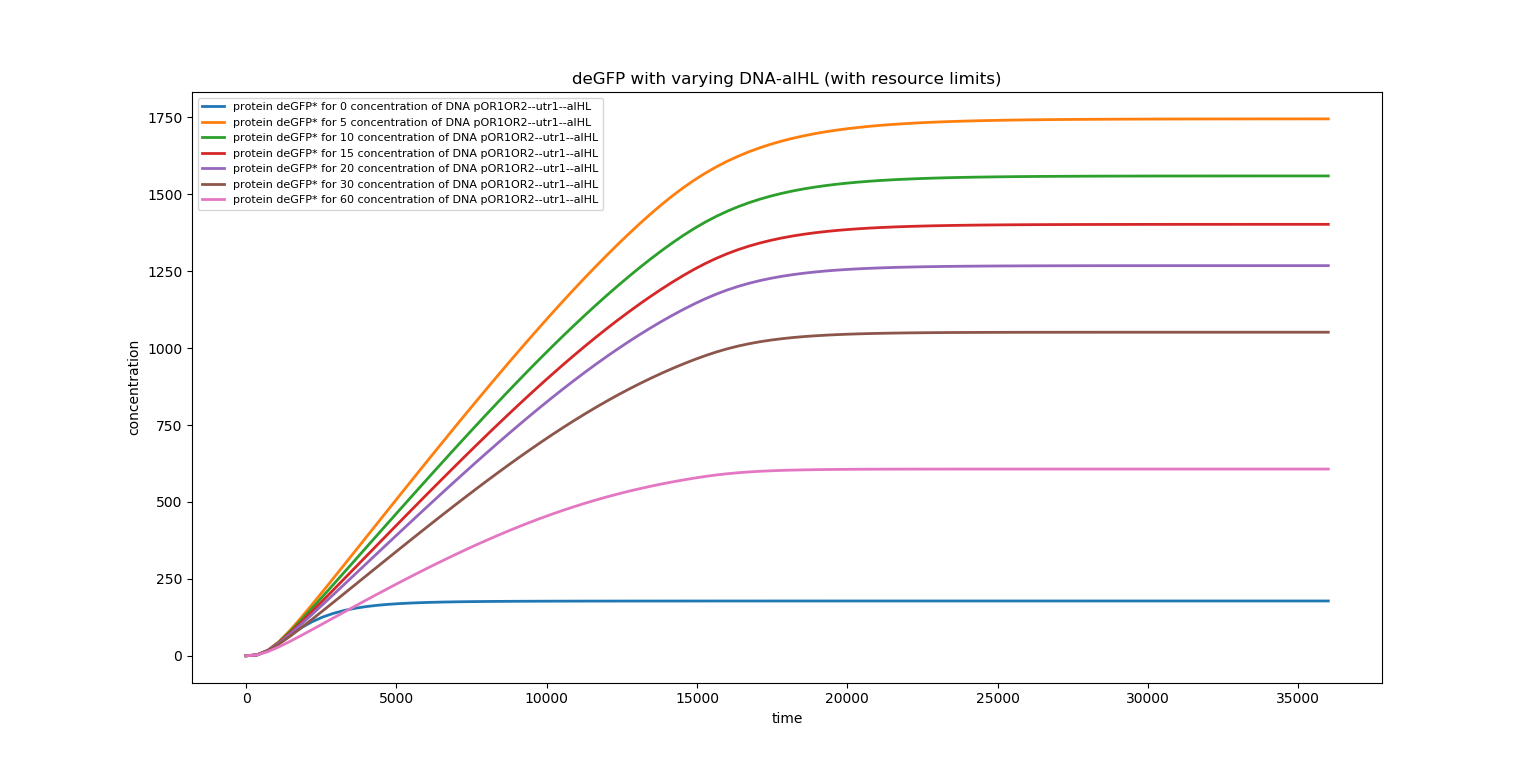
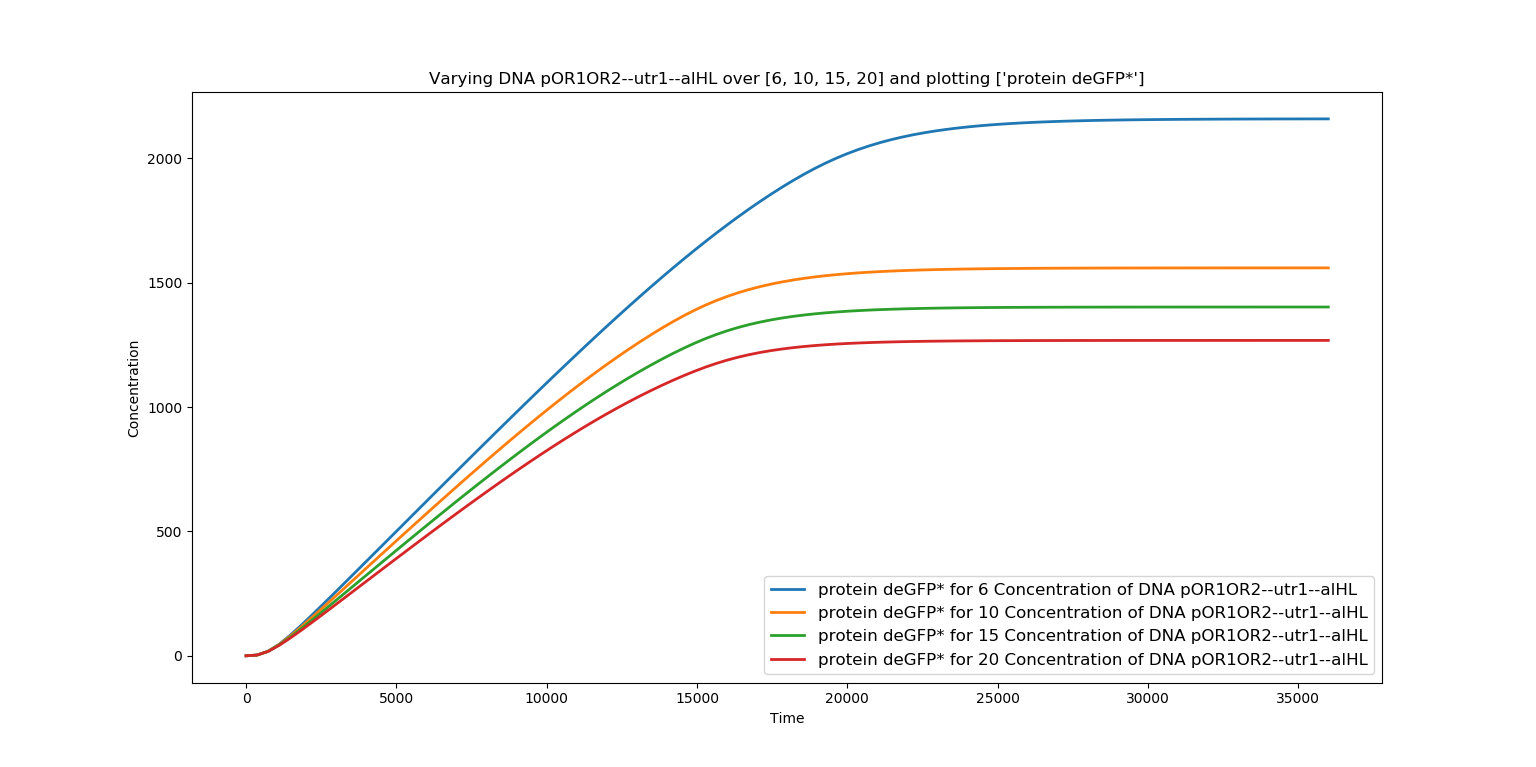
iptg transport working with modifications to variable input simulations

diff --git a/subsbml/Subsystem.py b/subsbml/Subsystem.py
@@ -1619,30 +1619,30 @@ class Subsystem(object):
         '''
         if comp_name == '':
             if type(inputSpecies) is list:
-                for inp_sp in inputSpecies:
+                for inp_sp,amt in zip(inputSpecies,amount):
                     if type(inp_sp) is not str:
                         raise ValueError('All items of inputSpecies must be strings.')
                     sp = self.getSpeciesByName(inp_sp)
                     if type(sp) is list:
                         for s_i in sp:
-                            if type(amount) is not float and type(amount) is not int:
+                            if not isinstance(amt, (float,int)):
                                 raise ValueError('The amount should be either a float or an int')
-                            check(s_i.setInitialAmount(amount),'setting initial amount to 0 in connectSubsystem')
+                            check(s_i.setInitialAmount(amt),'setting initial amount to 0 in connectSubsystem')
                     else:
-                        if type(amount) is not float and type(amount) is not int:
+                        if not isinstance(amt, (float,int)):
                             raise ValueError('The amount should be either a float or an int')
-                        check(sp.setInitialAmount(amount),'setting initial amount')
+                        check(sp.setInitialAmount(amt),'setting initial amount')
             else:
                 if type(inputSpecies) is not str:
                     raise ValueError('inputSpecies argument must be a string or a list of strings.')
                 sp = self.getSpeciesByName(inputSpecies)
                 if type(sp) is list:
                     for s_i in sp:
-                        if type(amount) is not float and type(amount) is not int:
+                        if not isinstance(amt, (float,int)):
                             raise ValueError('The amount should be either a float or an int')
                         check(s_i.setInitialAmount(amount),'setting initial amount')
                 else:
-                    if type(amount) is not float and type(amount) is not int:
+                    if not isinstance(amt, (float,int)):
                         raise ValueError('The amount should be either a float or an int')
                     check(sp.setInitialAmount(amount),'setting initial amount')
         else:
@@ -1903,6 +1903,30 @@ class Subsystem(object):
     #         else:
     #             species.setInitialAmount(0)
     #     return reducedSubsystem
+    def simulateRoadRunner(self, initialTime, timepoints):
+        ''' 
+        To simulate a Subsystem without generating the plot. 
+        Returns the data for all species which can be used to find out species indexes.
+        NOTE : Needs RoadRunner package installed to simulate. 
+        '''
+        filename = 'models/temp.xml'
+        libsbml.writeSBML(self.getSBMLDocument(), filename) 
+        m = bioscrape.types.read_model_from_sbml(filename)
+        s = bioscrape.simulator.ModelCSimInterface(m)
+        s.py_prep_deterministic_simulation()
+        s.py_set_initial_time(initialTime)
+        sim = bioscrape.simulator.DeterministicSimulator()
+        result = sim.py_simulate(s, timepoints)
+        return result.py_get_result(), m
+
+    def plotRoadRunner(self, ListOfSpeciesToPlot, timepoints, xlabel = 'Time', ylabel = 'Concentration (AU)', sizeOfXLabels = 14, sizeOfYLabels = 14):
+        ''' 
+        To plot a Subsystem model using RoadRunner.
+        NOTE : Needs RoadRunner package installed to plot the Subsystem
+        '''
+        filename = 'models/temp.xml'
+        libsbml.writeSBML(self.getSBMLDocument(), filename) 
+        plotRoadRunner(filename, timepoints[0], timepoints, ListOfSpeciesToPlot, xlabel, ylabel, sizeOfXLabels, sizeOfYLabels)
 
     def simulateBioscrape(self, initialTime, timepoints):
         ''' 
@@ -1910,7 +1934,7 @@ class Subsystem(object):
         Returns the data for all species and bioscrape model object which can be used to find out species indexes.
         NOTE : Needs bioscrape package installed to simulate. 
         '''
-        filename = 'models/temp_simulate.xml'
+        filename = 'models/temp.xml'
         libsbml.writeSBML(self.getSBMLDocument(), filename) 
         m = bioscrape.types.read_model_from_sbml(filename)
         s = bioscrape.simulator.ModelCSimInterface(m)
@@ -1925,13 +1949,13 @@ class Subsystem(object):
         To plot a Subsystem model using bioscrape.
         NOTE : Needs bioscrape package installed to plot the Subsystem
         '''
-        filename = 'models/temp_plot.xml'
+        filename = 'models/temp.xml'
         libsbml.writeSBML(self.getSBMLDocument(), filename) 
         plotSbmlWithBioscrape(filename, timepoints[0], timepoints, ListOfSpeciesToPlot, xlabel, ylabel, sizeOfXLabels, sizeOfYLabels)
     
     # def simulateVariableInputsBioscrape(self, ListOfInputs, ListOfListOfAmounts, ListOfSpeciesToPlot, timepoints, mode = 'reset', compartmentInput = '', compartmentSpecies = '',
         # plotShow  = 'single', xlabel = 'Time', ylabel = 'Concentration (AU)', title = '', lineWidth = 2, sizeOfXLabels = 16, sizeOfYLabels = 16, legendFontSize = 14):
-    def simulateVariableInputsBioscrape(self, ListOfInputs, ListOfListOfAmounts, ListOfSpeciesToPlot, timepoints, **kwargs):
+    def simulateVariableInputs(self,  ListOfInputs, ListOfListOfAmounts, ListOfSpeciesToPlot, timepoints, **kwargs):
 
         ''''
         Simulates the Subsystem model with the input species amounts varying 
@@ -1943,6 +1967,7 @@ class Subsystem(object):
         NOTE : Needs bioscrape package installed to simulate.
         '''
         # Default values
+        Simulator = 'roadrunner'
         mode = 'reset'
         compartmentInput = ''
         compartmentSpecies = ''
@@ -1979,6 +2004,9 @@ class Subsystem(object):
                 sizeOfYLabels = value
             if key == 'legendFontSize':
                 legendFontSize = value
+            if key == 'Simulator':
+                Simulator = value
+
         model = self.getSBMLDocument().getModel()
         simpleModel = SimpleModel(model)
         species_list = []

diff --git a/examples/IPTG transport/IPTG_transport.py b/examples/IPTG transport/IPTG_transport.py
@@ -14,20 +14,48 @@ cell.setExternal(external)
 cell.setMembrane(membrane)
 cell_model, cell_sub = cell.getModel()
 
-cell_sub.setSpeciesAmount('IPTG',5000, 'cell_external')
-cell_sub.setSpeciesAmount('RNAP',50000)
-cell_sub.setSpeciesAmount('Ribo',5000)
+cell_sub.setSpeciesAmount('IPTG',500, 'cell_external')
+# cell_sub.setSpeciesAmount('RNAP',50000000)
+# cell_sub.setSpeciesAmount('Ribo',50000000)
 libsbml.writeSBML(cell_model,'models/cell_transport_model.xml')
+gfp = cell_sub.getSpeciesByName('protein deGFP*')
+timepoints = np.linspace(0,10*60*60,100)
+# Use Road Runner
+import roadrunner
+rr = roadrunner.RoadRunner('models/cell_transport_model.xml')
+# result = rr.simulate(0,10*60*60,100)
+result = rr.simulate(0,24*60*60,1000, selections= ['time', gfp.getId()])
+rr.plot()
 
 ### If bioscrape is installed, uncomment the following to simulate the model. Otherwise, use your own preferred simulator with the SBML model generated above. 
-timepoints = np.linspace(0,10*60*60,100)
-# cell_sub.simulateVariableInputsBioscrape('DNA pOR1OR2--utr1--alHL',[0, 5, 10, 100, 15, 30], ['IPTG'], timepoints, 'reset', compartmentInput= 'cell_internal',compartmentSpecies = 'cell_internal')
-# cell_sub.simulateVariableInputsBioscrape('DNA pOR1OR2--utr1--alHL',[0, 5, 10, 100, 15, 30], ['IPTG'], timepoints, 'reset', compartmentInput= 'cell_internal',compartmentSpecies = 'cell_external')
-cell_sub.simulateVariableInputsBioscrape('DNA pOR1OR2--utr1--alHL',[5, 10, 15, 100], ['protein deGFP*', 'RNAP', 'Ribo'], timepoints, mode = 'reset')
-# cell_sub.simulateVariableInputsBioscrape('DNA pOR1OR2--utr1--alHL',[0,5, 10, 20, 100], ['protein deGFP*'], 
+cell_sub.simulateVariableInputs('IPTG',[0, 40, 60, 80, 100], ['protein deGFP*'], timepoints, Simulator = 'roadrunner', mode = 'reset', compartmentInput= 'cell_external',compartmentSpecies = 'cell_internal')
+# cell_sub.simulateVariableInputs('DNA pOR1OR2--utr1--alHL',[0, 5, 10, 100, 15, 30], ['IPTG'], timepoints, mode = 'reset', compartmentInput= 'cell_internal',compartmentSpecies = 'cell_internal')
+# cell_sub.simulateVariableInputs('DNA pOR1OR2--utr1--alHL',[0, 5, 10, 100, 15, 30], ['IPTG'], timepoints, mode = 'reset', compartmentInput= 'cell_internal',compartmentSpecies = 'cell_external')
+# cell_sub.simulateVariableInputs('DNA pOR1OR2--utr1--alHL',[6, 10, 15, 20], ['protein deGFP*'], timepoints, plotShow = 'single')
+# cell_sub.simulateVariableInputs('DNA pOR1OR2--utr1--alHL',[0,5, 10, 20, 100], ['protein deGFP*'], 
     # timepoints, mode = 'reset', compartmentInput = 'cell_internal', compartmentSpecies= 'cell_internal', 
     # plotShow = 'single', xlabel = 'time', ylabel = 'concentration',title = 'deGFP with varying DNA-alHL (without resource limits)',
     # lineWidth = 2, sizeOfXLabels = 12, sizeOfYLabels = 12, legendFontSize= 8)
-# cell_sub.simulateVariableInputsBioscrape(ListOfInputs = ['DNA plac--utr1--deGFP', 'DNA pOR1OR2--utr1--alHL'], ListOfListOfAmounts = [[5,5],[5,15],[5,25],[15,5],[15,15],[15,20],[20,5],[20,15],[20,25]], ListOfSpeciesToPlot = ['protein deGFP*'], timepoints = timepoints, mode = 'reset', compartmentInput = ['cell_internal','cell_internal'],compartmentSpecies= 'cell_internal', plotShow = 'matrix', xlabel = 'time', ylabel = 'concentration', lineWidth = 2, sizeOfXLabels = 12, sizeOfYLabels = 12, legendFontSize= 6)
-# cell_sub.simulateVariableInputsBioscrape(ListOfInputs = ['DNA plac--utr1--deGFP', 'DNA pOR1OR2--utr1--alHL'], ListOfListOfAmounts = [[5,5],[5,10],[20,5],[20,10]], ListOfSpeciesToPlot = ['protein deGFP*'], timepoints = timepoints, mode = 'reset', plotShow = 'matrix', legendFontSize = 6)
+# cell_sub.simulateVariableInputs(ListOfInputs = ['DNA plac--utr1--deGFP', 'DNA pOR1OR2--utr1--alHL'], ListOfListOfAmounts = [[5,5],[5,15],[5,25],[15,5],[15,15],[15,20],[20,5],[20,15],[20,25]], ListOfSpeciesToPlot = ['protein deGFP*'], timepoints = timepoints, mode = 'reset', compartmentInput = ['cell_internal','cell_internal'],compartmentSpecies= 'cell_internal', plotShow = 'matrix', xlabel = 'time', ylabel = 'concentration', lineWidth = 2, sizeOfXLabels = 12, sizeOfYLabels = 12, legendFontSize= 6)
+# cell_sub.simulateVariableInputs(ListOfInputs = ['DNA plac--utr1--deGFP', 'DNA pOR1OR2--utr1--alHL'], ListOfListOfAmounts = [[5,5],[5,10],[20,5],[20,10]], ListOfSpeciesToPlot = ['protein deGFP*'], timepoints = timepoints, mode = 'reset', plotShow = 'matrix', legendFontSize = 6)
 
+# DNA_alHl = np.linspace(0,20,20)
+# DNA_gfp = np.linspace(0,20,20)
+# count = 0 
+# max_data = []
+# for i in range(len(DNA_gfp)):
+#     gfp = DNA_gfp[i]
+#     for j in range(len(DNA_alHl)):
+#         alhl = DNA_alHl[j]
+#         count += 1
+#         data, time, plt = cell_sub.simulateVariableInputs(['DNA plac--utr1--deGFP', 'DNA pOR1OR2--utr1--alHL'], 
+#             [[gfp,alhl]], ['protein deGFP*'], timepoints, plotShow = False)
+#         max_data.append(max(data))
+
+# max_index = max_data.index(max(max_data)) 
+# n = len(DNA_alHl)
+# x = (max_index // n)
+# y = max_index % n  
+# print(DNA_alHl, DNA_gfp)
+# print(max(max_data))
+# print('{0},{1}'.format(DNA_alHl[y],DNA_gfp[x] ))
